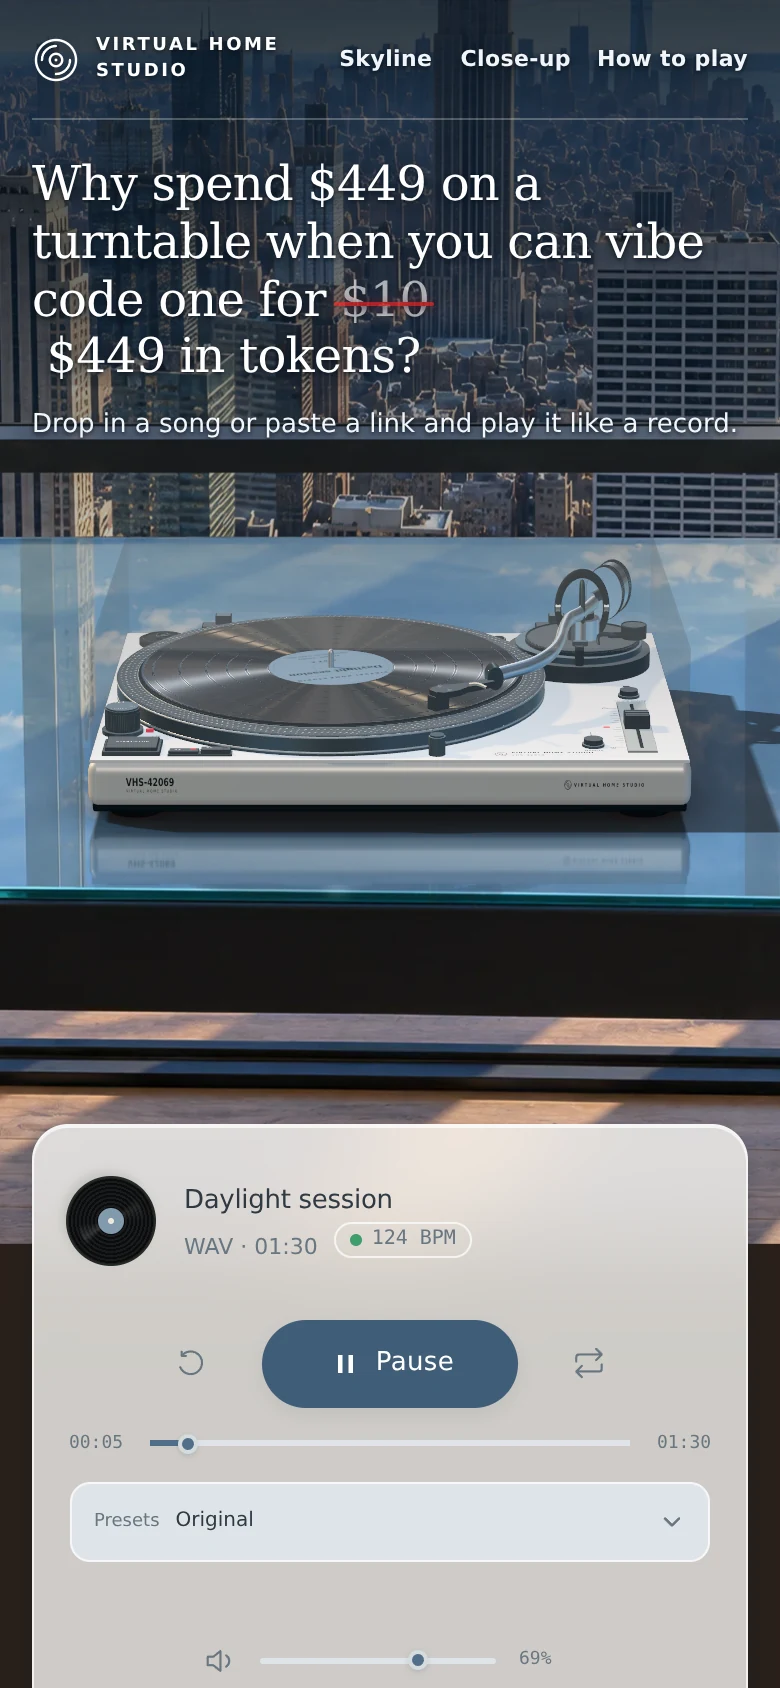
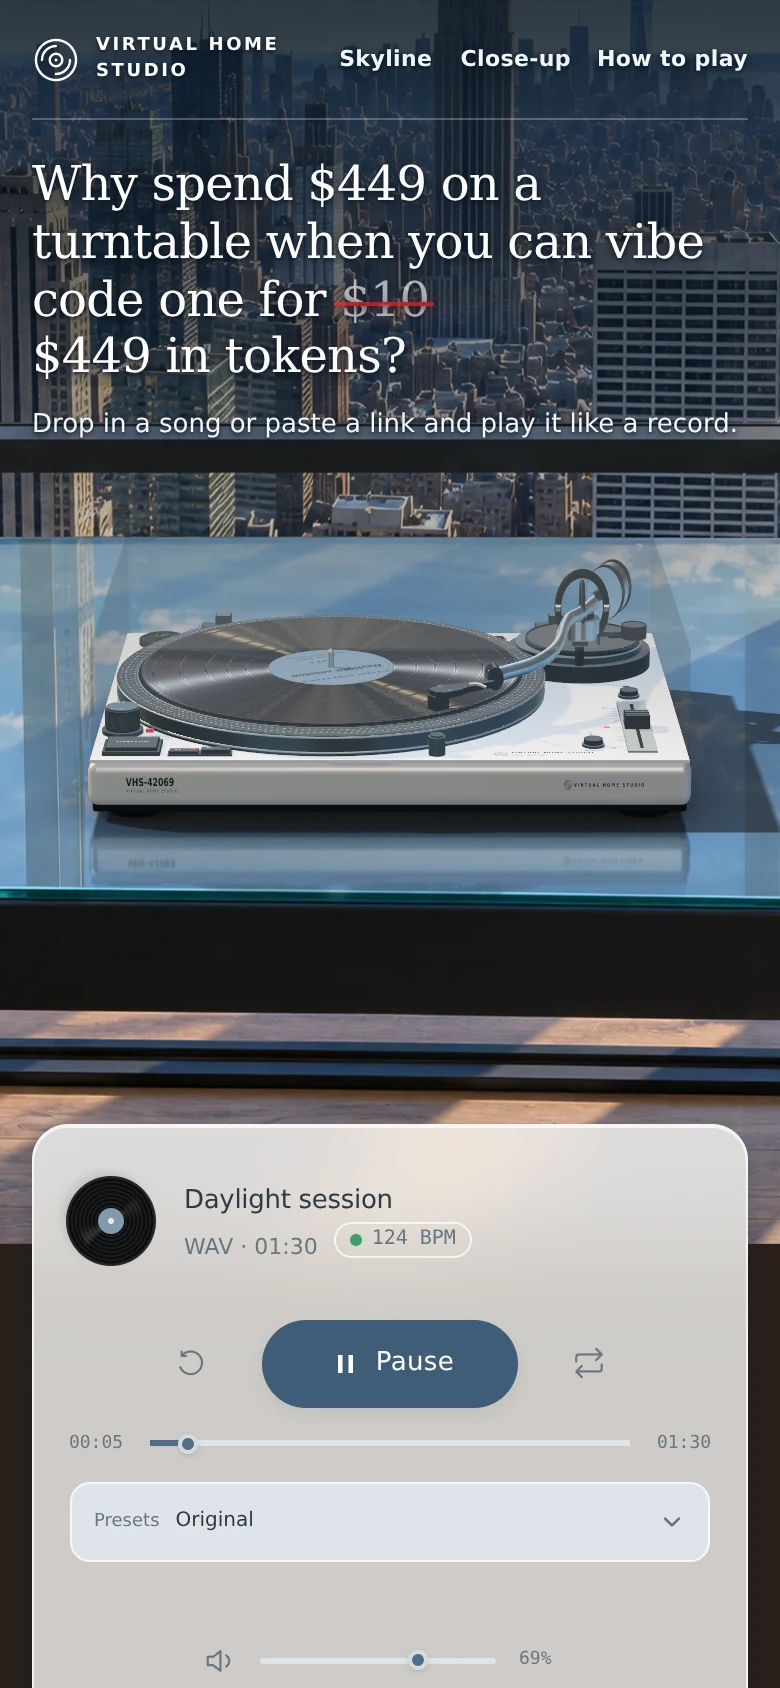
Keep the headline punchline flush when it wraps
The gap before "$449 in tokens" was a non-breaking space inside the
growing inline block, so on narrow screens the wrapped punchline started
indented. It is now a real, breakable space of its own, zero-width until
the punchline writes in: a wrap ends the line on it instead. Reduced
motion still shows the punchline at once. The README phone screenshot
is retaken to match.

Changed region(s): [[0.0308, 0.1848, 0.5538, 0.2464]]

diff --git a/static/studio-view.css b/static/studio-view.css
@@ -42,6 +42,10 @@ body{background:#26333c}
 .intro .price-old{position:relative;text-decoration:none;animation:price-fade .3s 3s both}
 .intro .price-old::after{content:'';position:absolute;left:-6%;right:-6%;top:54%;height:.1em;border-radius:2px;background:#ff1f1f;box-shadow:0 0 6px #ff1f1f99,0 1px 3px #05101a99;transform:scaleX(0);transform-origin:left;animation:price-strike .45s 2.6s cubic-bezier(.65,0,.35,1) forwards}
 .intro .price-new{display:inline-block;vertical-align:top;max-width:0;overflow:hidden;white-space:nowrap;animation:price-write .9s 3.2s steps(14,end) forwards}
+/* The gap before the punchline is a real, breakable space (zero-width until the punchline
+   writes in): when the headline wraps, it ends the line instead of indenting the next one. */
+.intro .price-gap{font-size:0;animation:price-gap 0s 3.2s forwards}
+@keyframes price-gap{to{font-size:1em}}
 @keyframes price-strike{to{transform:scaleX(1)}}
 @keyframes price-fade{to{opacity:.62}}
 @keyframes price-write{to{max-width:8.5em}}
@@ -184,6 +188,6 @@ body{background:#26333c}
   .masthead .text-button{font-size:10.5px}
   .masthead .text-button span{padding-left:5px}
 }
-@media(prefers-reduced-motion:reduce){.intro .price-old,.intro .price-old::after,.intro .price-new{animation-duration:0s;animation-delay:0s}}
+@media(prefers-reduced-motion:reduce){.intro .price-old,.intro .price-old::after,.intro .price-new,.intro .price-gap{animation-duration:0s;animation-delay:0s}}
 @media(prefers-reduced-motion:reduce){#studio-plate,#studio-canvas{transition:none}}
 @media(prefers-reduced-motion:reduce){#studio-enter,.masthead #studio-focus,.room>.listening-hud{transition:none}}

diff --git a/static/index.html b/static/index.html
@@ -21,7 +21,7 @@
       </nav>
     </header>
     <section class="intro">
-      <h1>Why spend $449 on a turntable when you can vibe code one for <s class="price-old">$10</s><span class="price-new">&nbsp;$449 in tokens</span>?</h1>
+      <h1>Why spend $449 on a turntable when you can vibe code one for <s class="price-old">$10</s><span class="price-gap"> </span><span class="price-new">$449 in tokens</span>?</h1>
       <p class="intro-note">Drop in a song or paste a link and play it like a record.</p>
     </section>
     <!-- Open area between the hero and the panel; the camera frames the deck here. -->
